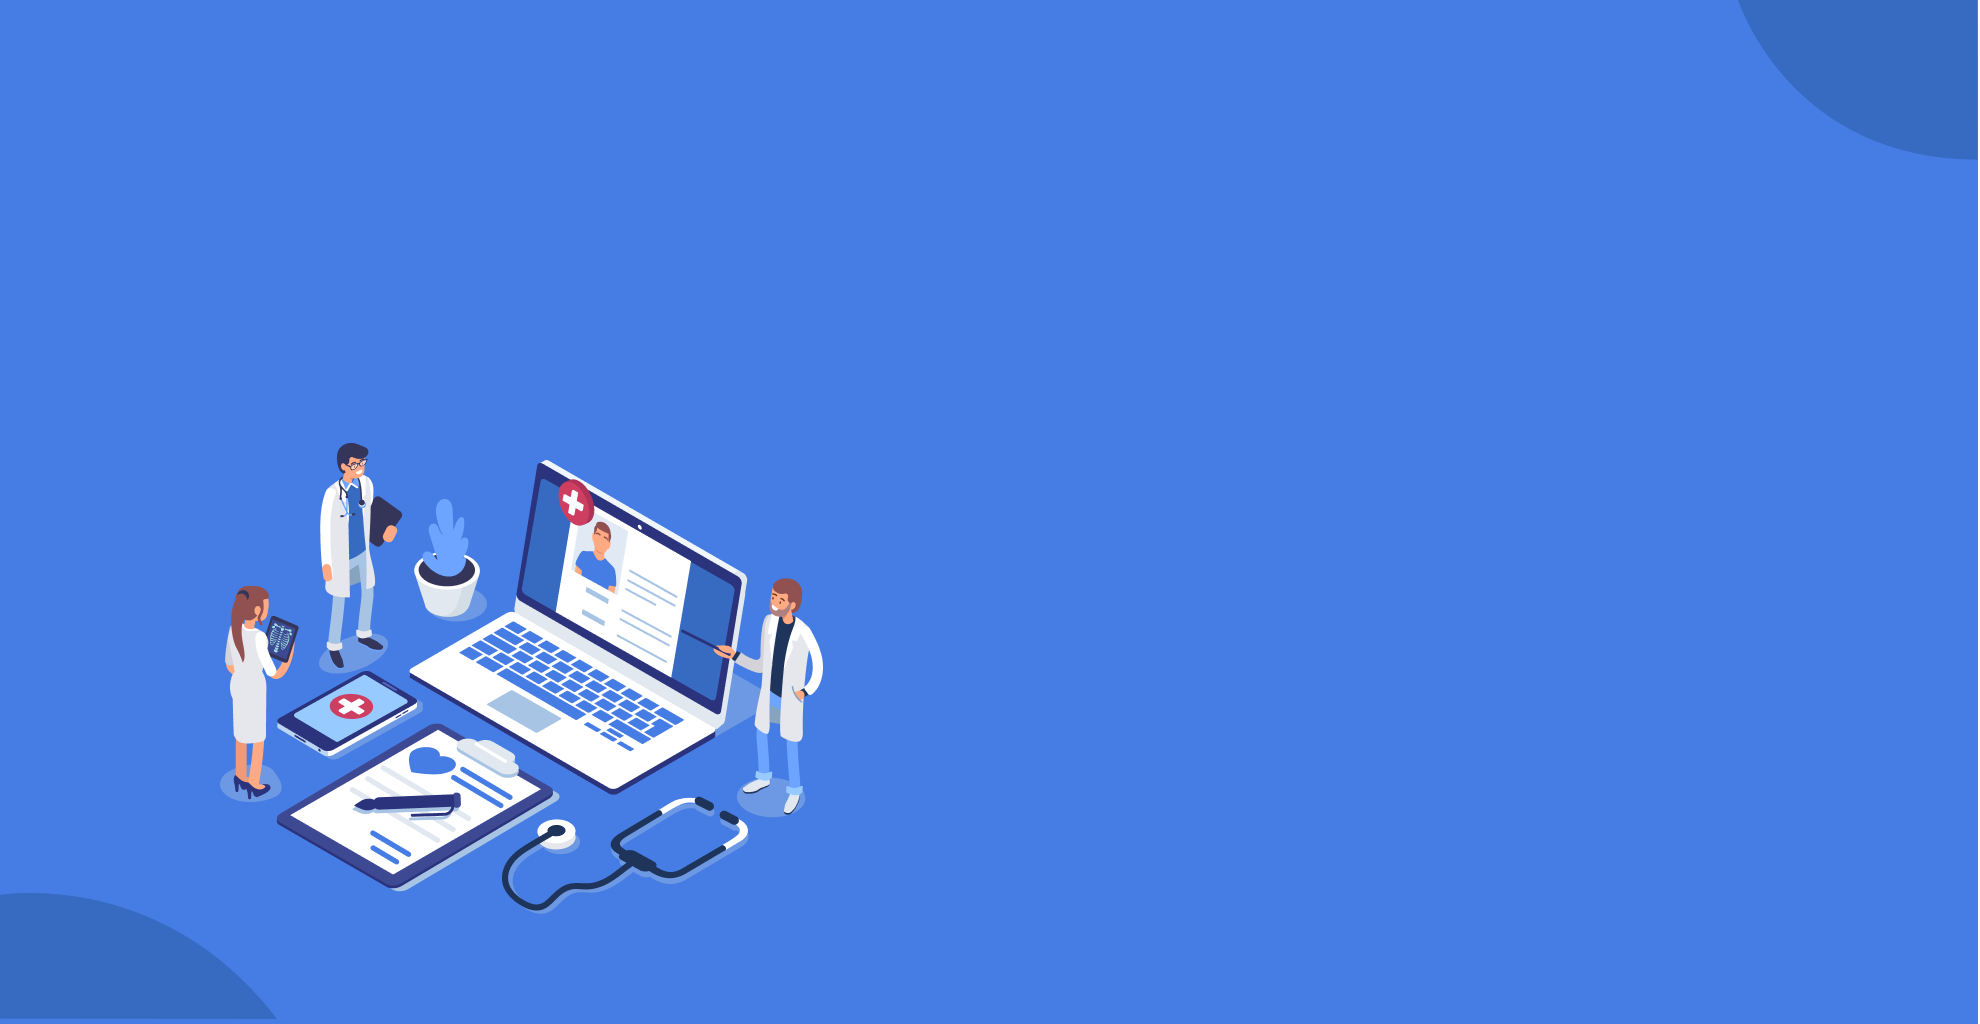
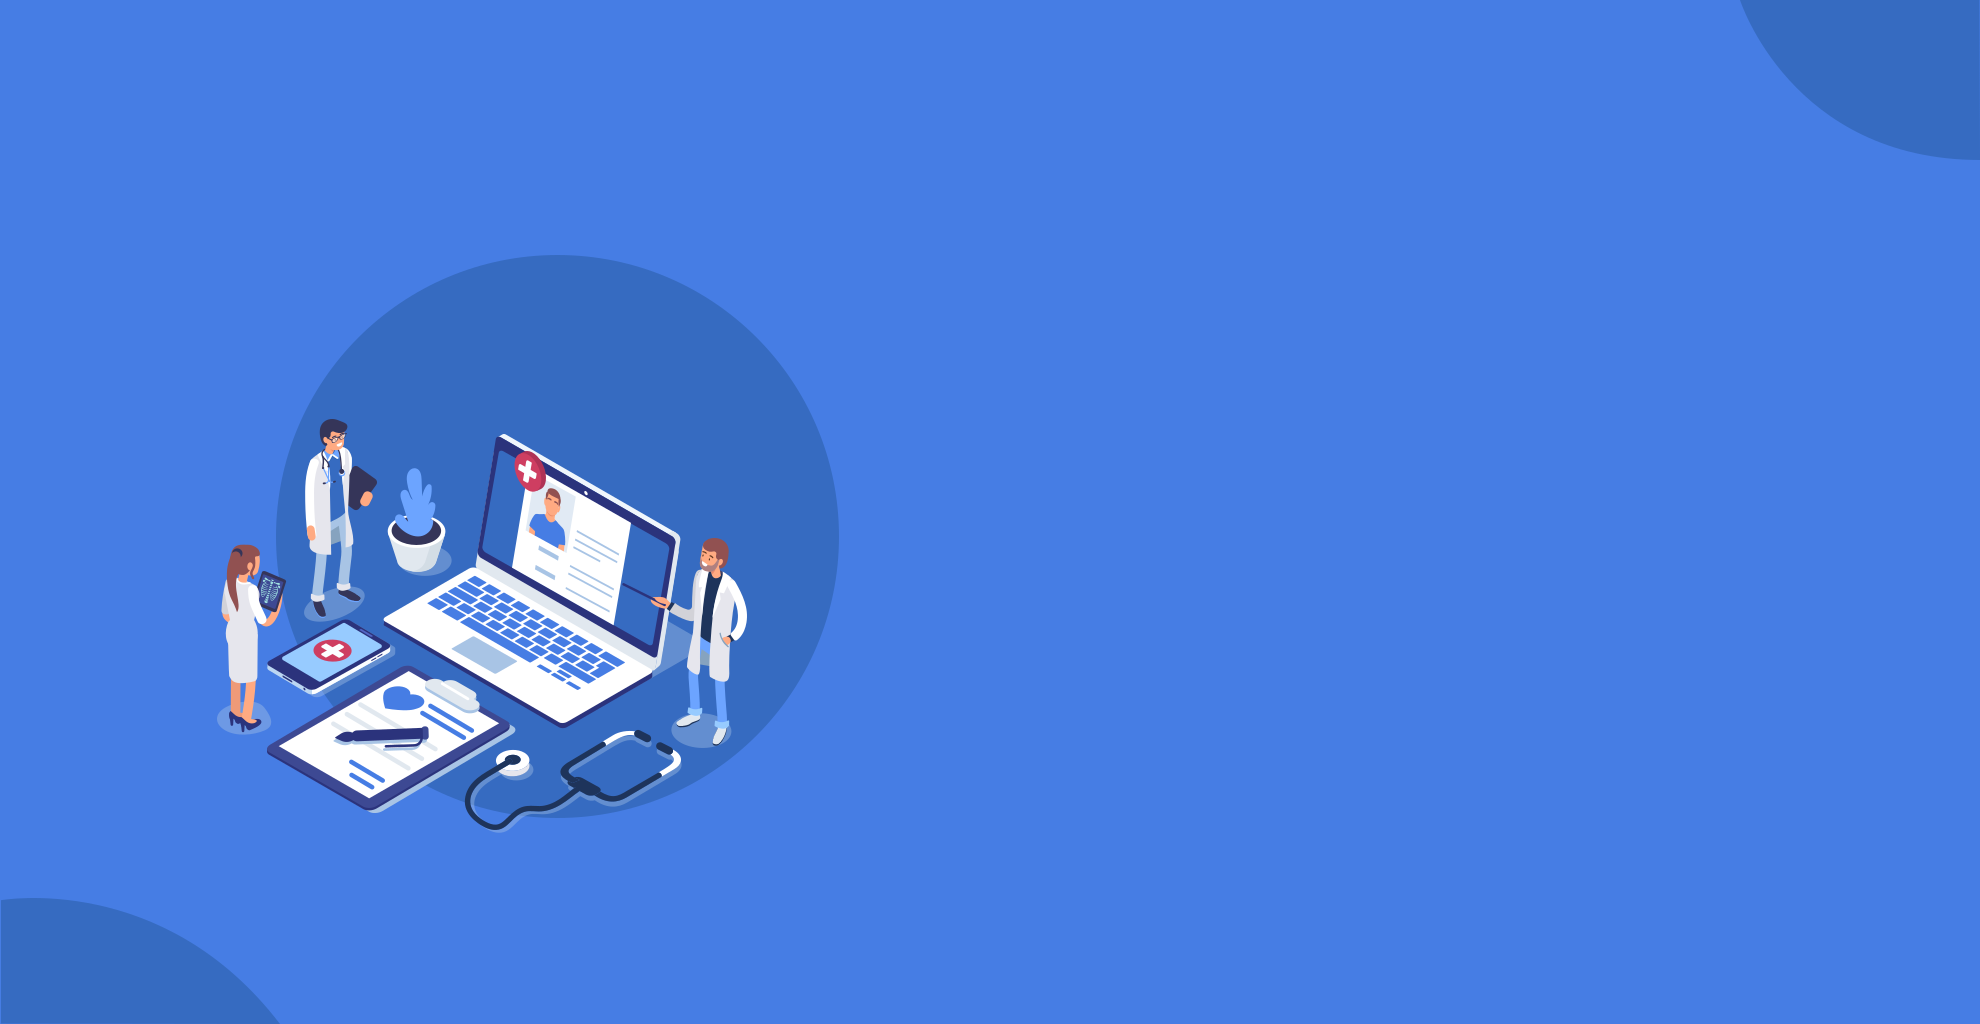
В photoload, при успешной загрузке нужно картинку куда-то девать, ибо пока я просто редирект сделал

diff --git a/src/components/photoload.vue b/src/components/photoload.vue
@@ -1,0 +1,69 @@
+<template>
+    <div :class="!isMobile ? 'main':'mainmob'">
+        <Upload class="upload-container"
+                :on-success="(response, file, fileList)=>this.$router.push('auth') "<!--Тут нужно что-то с картинкой сделать-->
+                action="//jsonplaceholder.typicode.com/posts/">
+            <div class="upload">
+                <Icon type="ios-cloud-upload" size="52"></Icon>
+                <p>Загрузите фото прямо сейчас</p>
+            </div>
+        </Upload>
+    </div>
+</template>
+
+<script>
+    function isMobile() {
+        try{ document.createEvent("TouchEvent"); return true; }
+        catch(e){ return false; }
+    }
+    export default {
+        name: "photoload"
+    }
+</script>
+
+<style scoped>
+.main
+{
+    background-image: url("../../public/images/auth.png");
+    position: fixed;
+    top: 0;
+    left: 0;
+    width: 100%;
+    height: 100%;
+    display: flex;
+    align-items: center;
+    justify-content: flex-end;
+}
+.main p
+{
+    font-family: Roboto;
+    font-style: normal;
+    font-weight: 500;
+    font-size: 24px;
+    line-height: 28px;
+
+    color: #FFFFFF;
+}
+.mainmob {
+    background-color: #467DE4;
+    position: fixed;
+    top: 0;
+    left: 0;
+    width: 100%;
+    height: 100%;
+    display: flex;
+    align-items: center;
+    justify-content: flex-end;
+}
+.upload
+{
+    padding: 20px 0;
+    background-color: #467DE4;
+    color: #3399ff;
+}
+.upload-container
+{
+    border: 1px dashed #FFFFFF;
+    margin-right: 314px;
+}
+</style>

diff --git a/src/router.js b/src/router.js
@@ -38,6 +38,15 @@ export default new Router({
       // which is lazy-loaded when the route is visited.
       component: () =>
           import(/* webpackChunkName: "auth" */ "@/components/start.vue")
+    },
+    {
+      path: "/photoload",
+      name: "photoload",
+      // route level code-splitting
+      // this generates a separate chunk (about.[hash].js) for this route
+      // which is lazy-loaded when the route is visited.
+      component: () =>
+          import(/* webpackChunkName: "auth" */ "@/components/photoload.vue")
     }
   ]
 });

diff --git a/src/components/start.vue b/src/components/start.vue
@@ -21,7 +21,8 @@
 <style scoped>
     .main
     {
-        background-image: url("../../public/images/auth.png");
+        background:url("../../public/images/auth.png") 100% 100% no-repeat;
+        background-size: cover;
         position: fixed;
         top: 0;
         left: 0;
